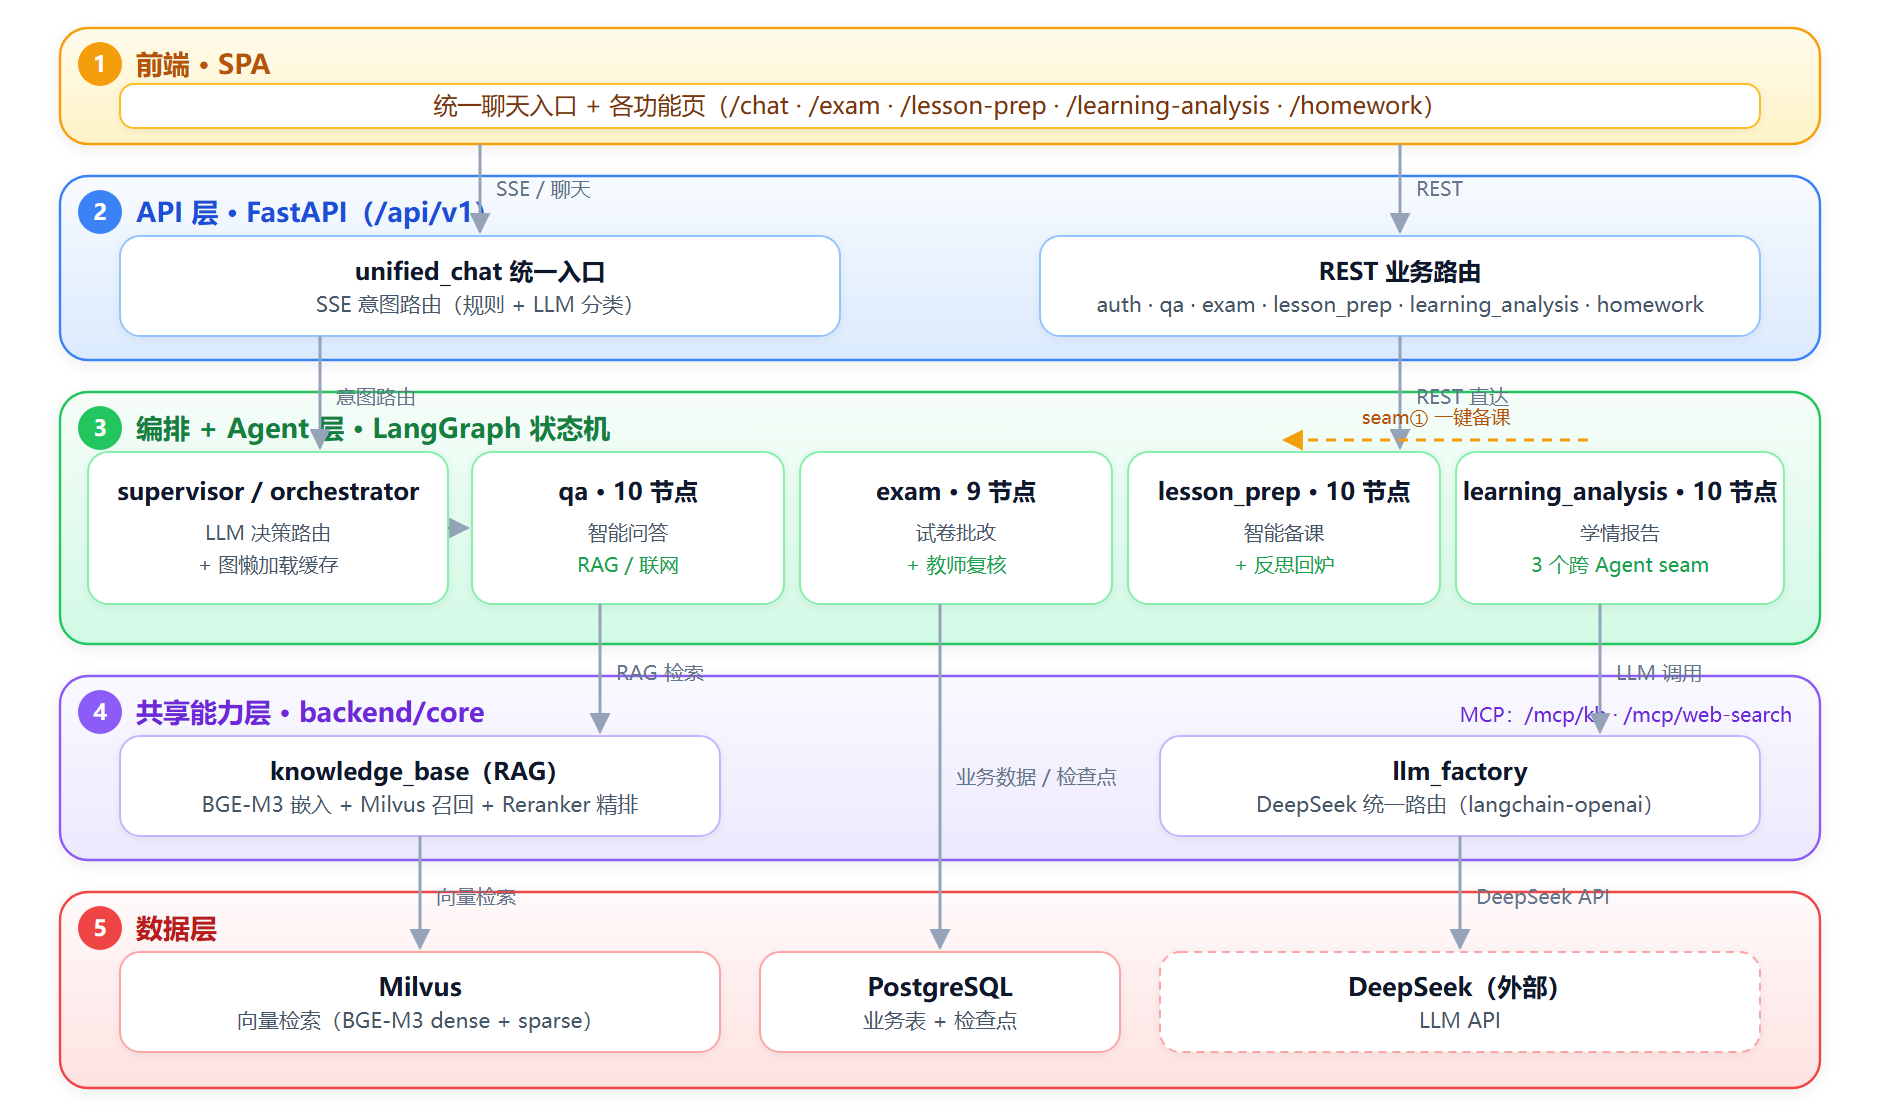
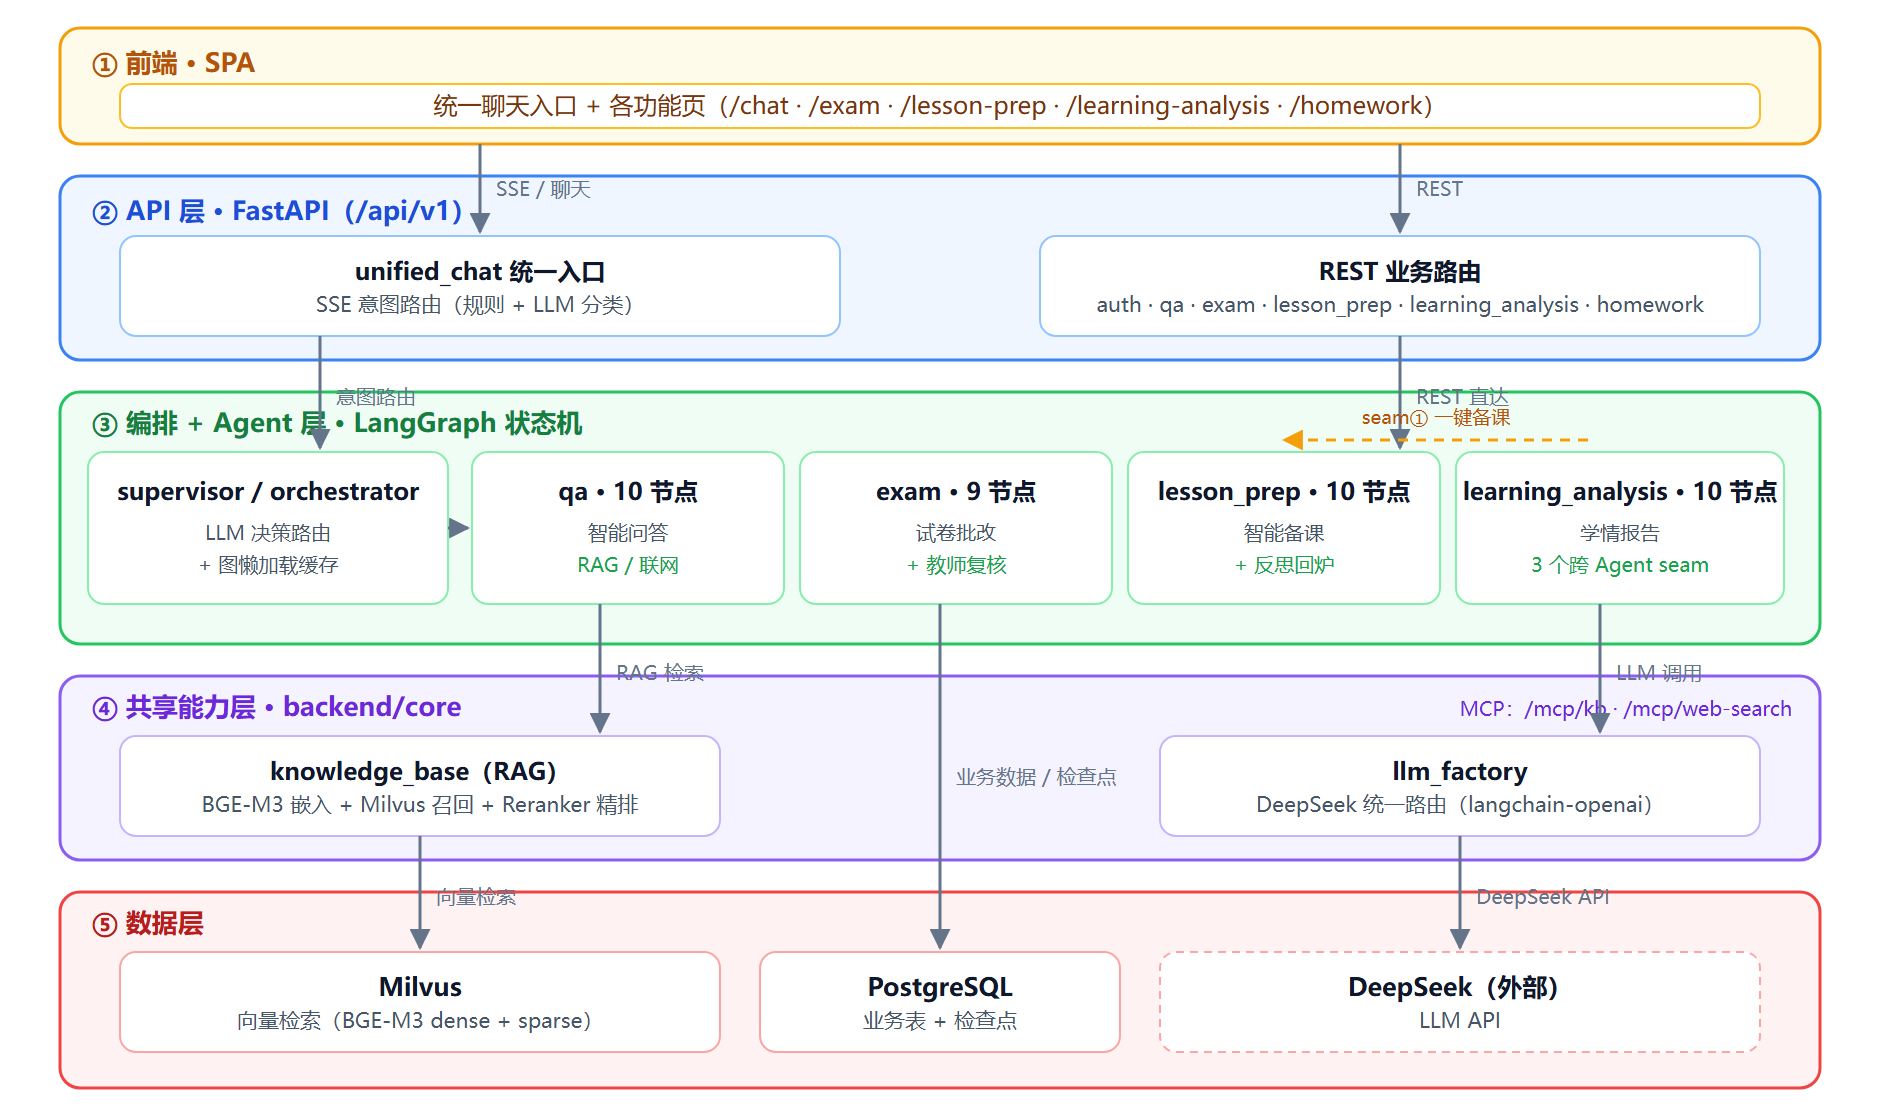
docs: 架构图回退为白底描边版（去掉渐变/投影/徽章）

diff --git a/README.md b/README.md
@@ -50,11 +50,7 @@ flowchart TB
     LA -.->|"seam① 一键备课"| LP
 ```
 
-> 架构图成品（PNG，本地浏览器完整渲染，含投影/字体，GitHub 上显示一致）：
-
 ![系统架构图](docs/architecture.png)
-
-> 矢量源文件（可编辑，贴简历/PPT 可另存高清版）：[docs/architecture.svg](docs/architecture.svg)。注：GitHub 直接渲染 SVG 会剥掉投影并替换中文字体，成品请以 PNG 为准。
 
 **分层职责**
 
